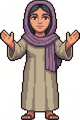
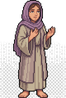
Shrink Jesus/Maria world scale and replace Maria with different front pose

diff --git a/apps/mobile-app/app/(tabs)/world.tsx b/apps/mobile-app/app/(tabs)/world.tsx
@@ -134,12 +134,12 @@ export default function WorldScreen() {
   const afkBrief = latestAssistant?.text ?? `긴급 ${urgentCount}명, 기도 ${prayerCount}건. ${selected?.name ?? "오늘 대상"}부터 확인해줘.`;
   const visiblePresets = WORLD_COMMAND_PRESETS;
 
-  const jesusW = Math.max(64, Math.floor(worldSize.width * 0.1));
-  const jesusH = Math.max(96, Math.floor(worldSize.height * 0.12));
+  const jesusW = Math.max(52, Math.floor(worldSize.width * 0.078));
+  const jesusH = Math.max(78, Math.floor(worldSize.height * 0.098));
   const jesusLeft = clamp01(jesusAnchor.nx) * Math.max(0, worldSize.width - jesusW);
   const jesusTop = clamp01(jesusAnchor.ny) * Math.max(0, worldSize.height - jesusH);
-  const mariaW = jesusW;
-  const mariaH = jesusH;
+  const mariaW = Math.max(48, Math.floor(worldSize.width * 0.072));
+  const mariaH = Math.max(72, Math.floor(worldSize.height * 0.092));
   const mariaLeft = clamp01(mariaAnchor.nx) * Math.max(0, worldSize.width - mariaW);
   const mariaTop = clamp01(mariaAnchor.ny) * Math.max(0, worldSize.height - mariaH);
   const mariaUnlocked = attendanceReward?.mariaUnlocked ?? false;
